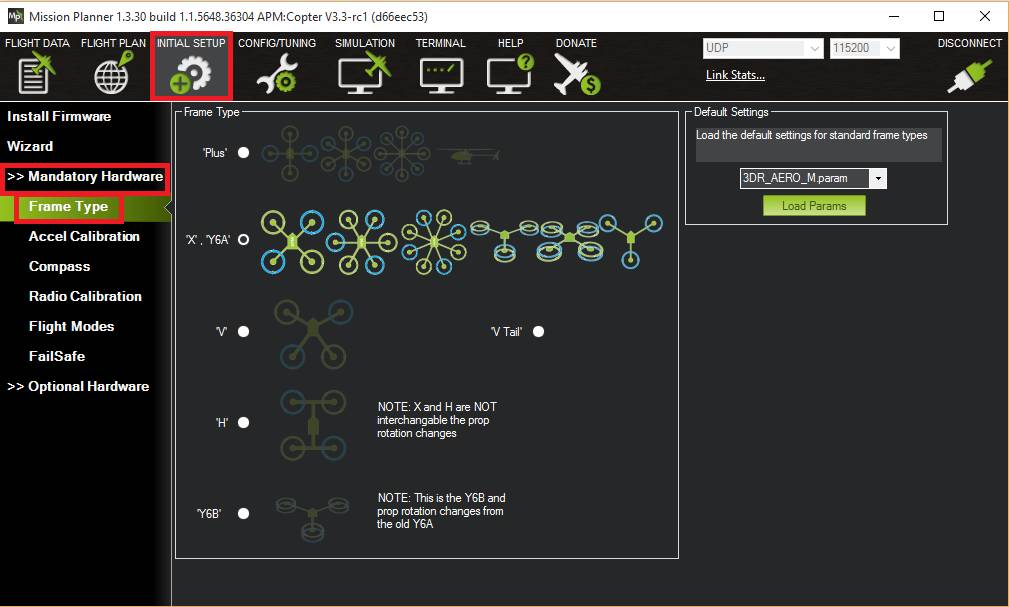
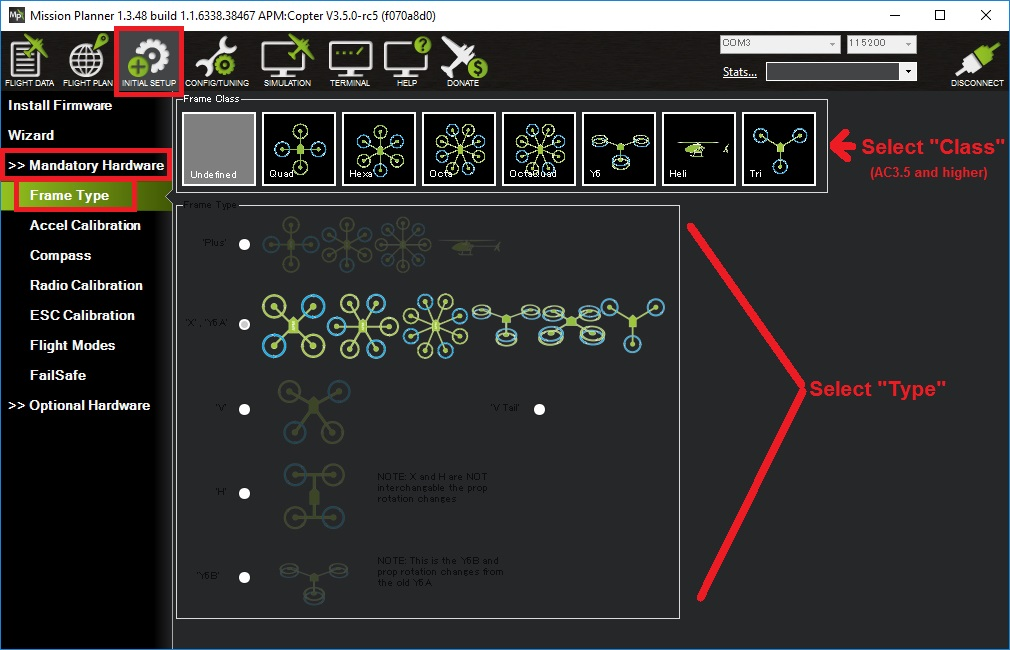
Copter: update frame-type-configuration page for AC3.5

diff --git a/copter/source/docs/frame-type-configuration.rst b/copter/source/docs/frame-type-configuration.rst
@@ -1,24 +1,52 @@
 .. _frame-type-configuration:
 
-===========================================
-Frame Type Configuration in Mission Planner
-===========================================
+==================================
+Frame Class and Type Configuration
+==================================
 
-On the *Mission Planner*'s Initial Setup screen select **Mandatory
-Hardware \| Frame Type**. Select the frame for your copter. The default
-configuration is **X**. If you want one of the arms to serve as the
-exclusive front-facing direction, select the **Plus** configuration. For
-Tricopters, Traditional Helis and Y6s, the frame type is ignored.
+The :ref:`FRAME_CLASS <copter:FRAME_CLASS>` and :ref:`FRAME_TYPE <copter:FRAME_TYPE>` parameters should be set to match the physical frame being used.
+
+If using the mission planner select Initial Setup, **Mandatory Hardware \| Frame Type**.
+
+If using Copter-3.5 (or higher) firmware a "Frame Class" section should be visible which allows selecting the "Class" of vehicle (Quad, Hexa, Octa, etc).
+If you are using a Traditional Helicopter, "Heli" should already be selected and it should not be changed.
+
+Next select the frame "Type" for your vehicle. The default type is **X**.
+Diagrams of most of the available types appear on the <connect-escs-and-motors> page.
+
+For Tricopters, Y6, Traditional Helicopters, SingleCopters and CoaxCopters the frame type is ignored.
 
 .. figure:: ../images/MissionPlanner_Select_Frame-Type.jpg
    :target: ../_images/MissionPlanner_Select_Frame-Type.jpg
 
    Mission Planner:Select Frame Type
 
+Motor Order Diagrams
+====================
+
+Quad
+----
+
+.. image:: ../images/MOTORS_QuadX_QuadPlus.jpg
+    :target: ../_images/MOTORS_QuadX_QuadPlus.jpg
+
+.. image:: ../images/MOTORS_Quad_Hb.jpg
+    :target: ../_images/MOTORS_Quad_Hb.jpg
+
 .. note::
 
-   For an H-Frame quadcopter use the option to set the frame type to
-   '3' in the *Advanced Parameter* Tab. To apply the H-frame configuration,
-   swap the left rear and right rear props and reverse the motor direction
-   for each of those motors (by swapping any two motor wires). Repeat the
-   same process for the front two motors.
+   A common confusion comes when trying to decide if a particular Quadcopter's Type is "X" or "H".
+   The Type depends upon the direction that the motors spin and not on the shape that the arms produce.
+   However if the frame physically looks like an "H" and is somewhat flexible (i.e it can be twisted) it's yaw performance may be improved by reversing the motor order and changing the type to "H".
+   
+Hexa, Octo, Y6
+--------------
+
+.. image:: ../images/MOTORS_Hexa-octo-y6.jpg
+    :target: ../_images/MOTORS_Hexa-octo-y6.jpg
+
+X8
+--
+
+.. image:: ../images/MOTORS_X8.jpg
+    :target: ../_images/MOTORS_X8.jpg
